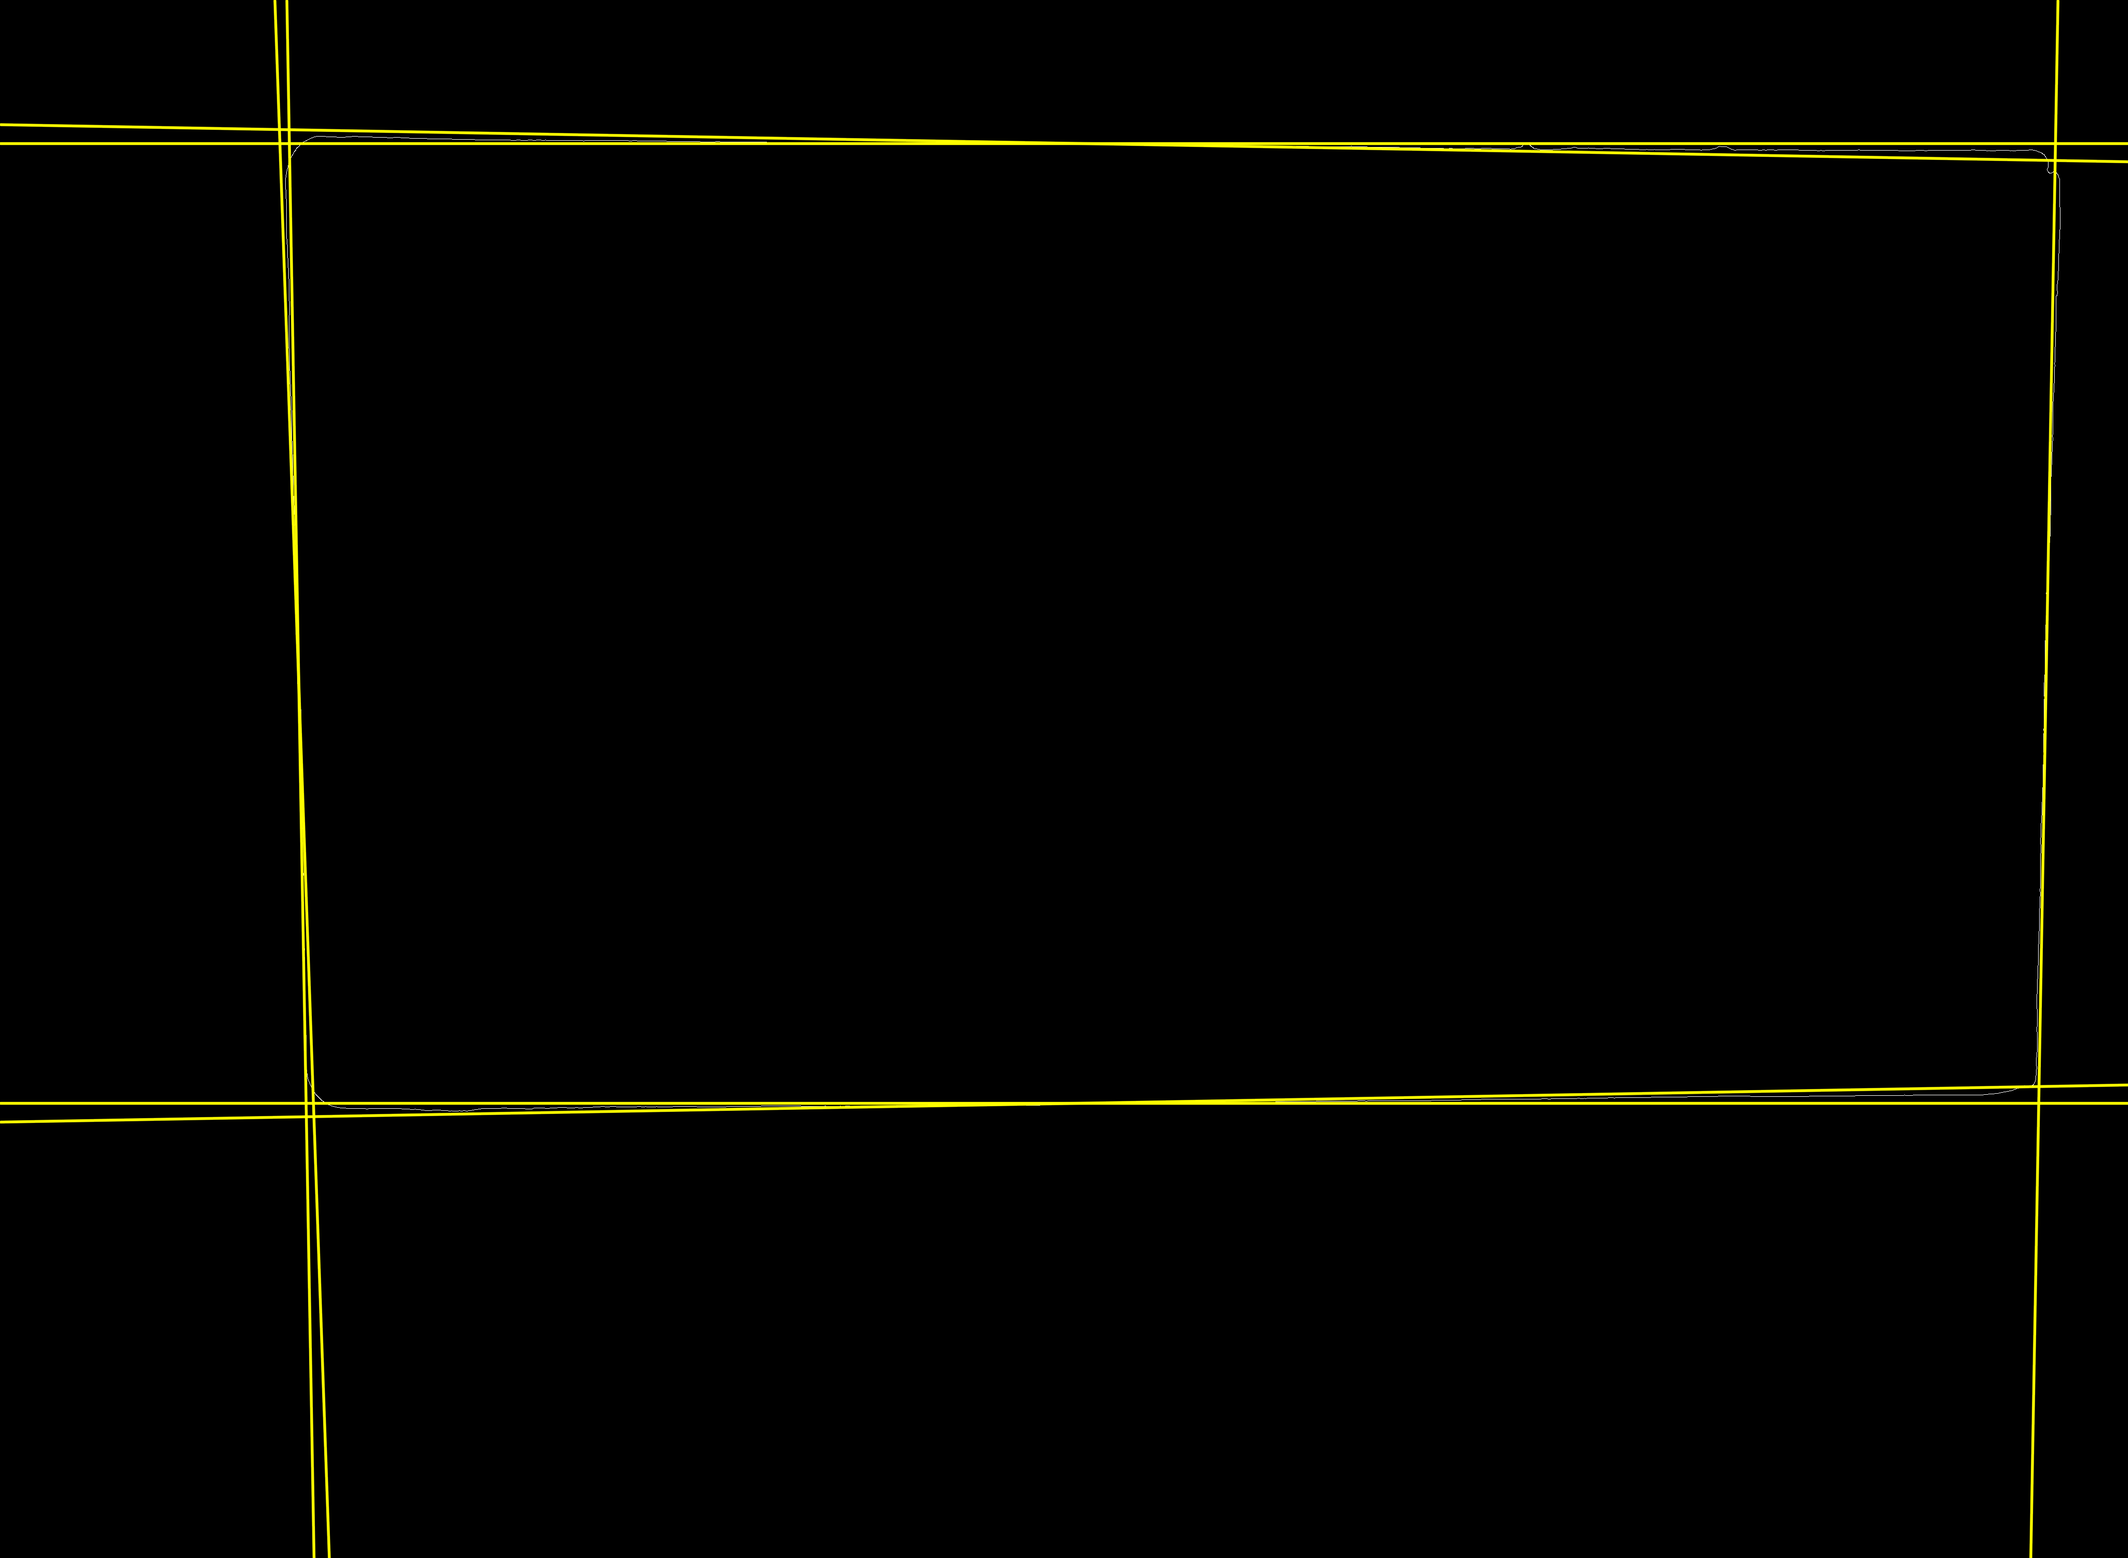
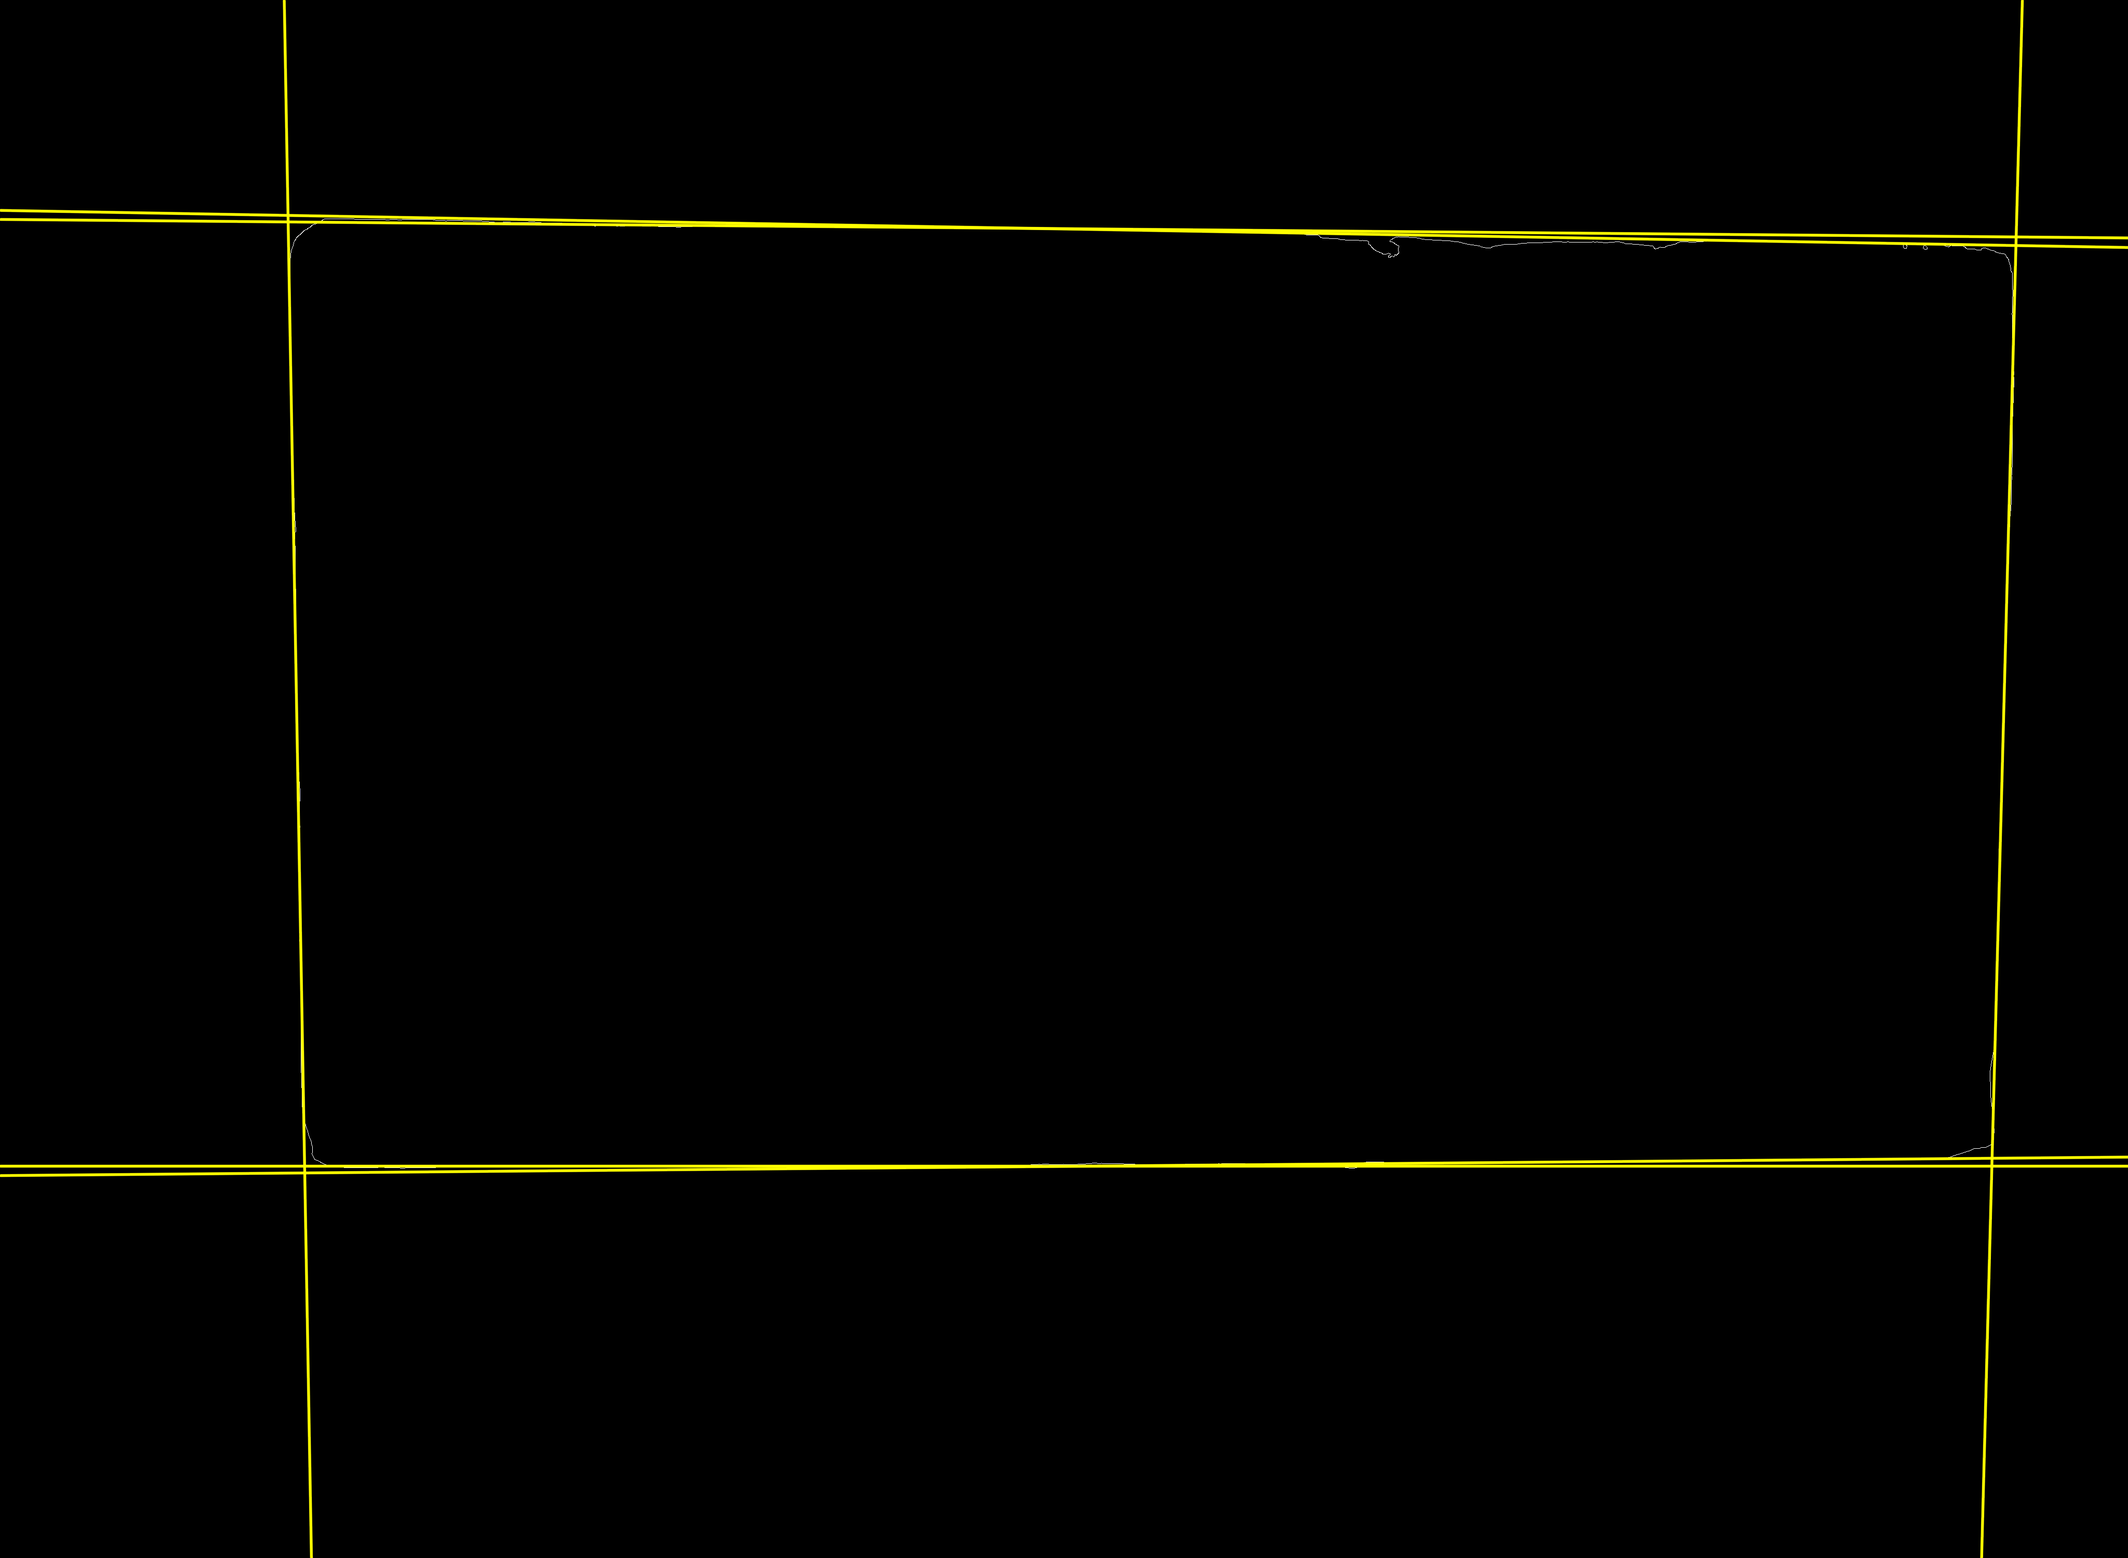
加入python

diff --git a/pyCode/registration.py b/pyCode/registration.py
@@ -1,33 +1,240 @@
 from math import atan2
-from typing import List
+from pathlib import Path
 import cv2
+import os
+import numpy as np
+import math
 
-pts , rectPts= [[]], [[]]
+# 存储识别到的点
+# pts , rectPts= [[]], [[]]
+
+def MkdirAndImwrite(filename, img):
+    pwd_f = Path(filename).parent
+    if not os.path.exists(pwd_f):
+        os.makedirs(pwd_f)
+    cv2.imwrite(filename, img)
+
 
 # 点的顺时针排序
 # 计算该点与重心连线的斜率角,输入为2个点
 def KAngle(a, center):
-    return atan2((a.y - center.y), (a.x - center.x))
+    return atan2((a[1] - center[1]), (a[0] - center[0]))
 # 对点进行顺时针排序,pts为点集
-def ClockWiseSortPoints(pts):
-    center = 0
+def ClockwiseSortPoints(pts):
+    center = np.array([0, 0], dtype=np.int32)
     x, y = 0, 0
     ptsSize = len(pts)
     for pt in pts:
-        x += pt.x
-        y += pt.y
+        x += pt[0]
+        y += pt[1]
     # 防止出现除0错误
-    if ptsSize:
-        center.x = x / ptsSize
-        center.y = y / ptsSize
+    if ptsSize > 0:
+        center[0] = int(x / ptsSize)
+        center[1] = int(y / ptsSize)
     else:
-        center.x = 2000
-        center.y = 1500
+        center[0] = 2000
+        center[1] = 1500
     
     # 冒泡排序
     for i in range(0, ptsSize - 1):
-        for j in range(0, i - 1):
+        for j in range(0, ptsSize - i - 1):
+            a=KAngle(pts[j], center)
+            b=KAngle(pts[j + 1], center)
             if KAngle(pts[j], center) > KAngle(pts[j + 1], center):
                 tmp = pts[j]
                 pts[j] = pts[j + 1]
                 pts[j + 1] = tmp
+
+# 输入一个数组,返回他是否有4个不同顶点,th_x表示x轴距离多远之内被视为一个点
+def Has4Points(pts, th_x, th_y) -> bool:
+    pointNum = len(pts)
+    ClockwiseSortPoints(pts)
+    for i in range(0, pointNum):
+        # 两点挨在一起时pointNum-1
+        if abs(pts[i - 1][0] - pts[i][0]) < th_x and abs(pts[i - 1][1] - pts[i][1]) < th_y:
+            pointNum -= 1
+    if pointNum >= 4:
+        return True
+    return False
+
+# 画多边形过程
+# 去除小连通区域,输入为两张图
+def RemoveSmall(src):
+    # 将二值图转化为黑白存储到dst中
+    dst= cv2.inRange(src, (0, 100, 0), (255, 255, 255))
+    MkdirAndImwrite("original.png", dst)
+    # 提取连通区域，并剔除小面积联通区域
+    contours, hierarchy= cv2.findContours(dst, cv2.RETR_LIST, cv2.CHAIN_APPROX_NONE)
+    # 图片总面积
+    areaSize = len(src[0]) * len(src)
+    # 小于图片面积四分之一的视为小区域
+    tmp = [i for i in contours if cv2.contourArea(i) >= areaSize / 4]
+    # tmp = np.array([])
+    # for i in range(len(contours)):
+    #     area = cv2.contourArea(contours[i])
+    #     if area >= areaSize / 4:
+    #         tmp.append(contours[i])
+    contours = tmp
+
+    # 将所有像素置零
+    dst[:, :] = 0
+    cv2.drawContours(dst, contours, -1, [255], cv2.FILLED)
+    MkdirAndImwrite("remove.png", dst)
+    return dst
+
+# 给二元一次方程组求解(带过程){ax+by+c=0 dx+ey+f=0}
+def SolvEqu(a, b, c, d, e, f):
+    y = (-f * 1.0 + d * c * 1.0 / a) * 1.0 / (-d * b * 1.0 / a + e * 1.0)
+    x = (-c * 1.0 - b * y * 1.0) * 1.0 / a
+    return x, y
+
+# 获得直线交点，第4,5,6个参数是HoughLines的rho精度，theta精度和长度阈值
+def CntPoint(srcImage,
+             rho_h = 1, theta_h = math.pi/360, 
+             th_h = 450, srn = 0, stn = 0):
+    th_h = int(th_h)
+    midImage = cv2.Canny(srcImage, 50, 200, 3)
+    dstImage = cv2.cvtColor(midImage, cv2.COLOR_GRAY2BGR)
+    MkdirAndImwrite("cannyEdge.png", midImage)
+    # 进行霍夫线变换
+    lines = cv2.HoughLines(midImage, rho_h, theta_h, th_h)
+    pts = [[]]
+
+    # 依次在图中绘制出每条线段,并且两两求交点
+    for i in range(len(lines)):
+        rho, theta = lines[i][0][0], lines[i][0][1]
+        a, b= math.cos(theta), math.sin(theta)
+        x0, y0 = a * rho, b * rho
+        pt1 = (int(x0 + 10000 * (-b)), int(y0 + 10000 * (a)))
+        pt2 = (int(x0 - 10000 * (-b)), int(y0 - 10000 * (a)))
+        # 画线
+        cv2.line(dstImage, pt1, pt2, (255,255,255))
+        # 两两求交点
+        for j in range(i+1, len(lines)):
+            rho2, theta2 = lines[j][0][0], lines[j][0][1]
+            c, d= math.cos(theta2), math.sin(theta2)
+            x, y = SolvEqu(a, b, -rho, c, d, -rho2)
+            if ((0 <= x and x <= len(srcImage[0]) and 0 <= y and y <= len(srcImage)) 
+                 and not ((x > (len(srcImage[0]) / 4) and x < (len(srcImage[0]) / 6 * 5))
+                 or (y > (len(srcImage) / 3) and y < (len(srcImage) / 3 * 2)))):
+                pts[0].append((int(x), int(y)))
+
+    return pts, dstImage
+
+def IntoPoly(dst, pts):
+    # 将交点排序并连成多边形并填充
+    ClockwiseSortPoints(pts[0])
+    dstImage = np.zeros(shape=(len(dst), len(dst[0]), 3), dtype=np.uint8)
+    pts = np.array(pts)
+    cv2.fillPoly(dstImage, pts, (255, 255, 255))
+    MkdirAndImwrite("srcPloy.png", dstImage)
+    dst = dstImage
+    return dstImage
+
+# 从前到后分别为变换矩阵，原图，二值图，结果图，中间图1,2，参照图，
+# flagM表示是否直接用传进来的变换矩阵为1用,succeed表示是否失败过，为1表示失败过要变更参数
+def Registrating1Pic(M, fnSrc, fnBinImg, fnFi, 
+                    flagM = False, failed = False,
+                    FnMid1 = "srcLines.png", 
+                    FnMid2 = "refLines.png", 
+                    fnRefImg = "refImg.png") -> bool:
+    # 用于记录失败的图片
+    failedImg = open("failedImg.txt", "a")
+    # IMG1:二值图，refimg：参考二值图，src：原图，dst：结果图
+    binImg = cv2.imread(fnBinImg)
+    refImg = cv2.imread(fnRefImg)
+    src = cv2.imread(fnSrc)
+    dst = np.zeros(shape=(len(src), len(src[0]), 3), dtype=np.uint8)
+    # 没有二值图(png)返回失败
+    if(len(binImg) == 0):
+        return True
+    refImg = cv2.resize(refImg, (len(src[0]), len(src)))
+    # 若有矩阵且使用则直接变换
+    if flagM and len(M) != 0:
+        dst = cv2.warpPerspective(M, (len(src[0]), len(src)))
+    else:
+        midImg = RemoveSmall(binImg)
+        try:
+            if failed:
+                pts, binImg = CntPoint(midImg, 12, math.pi / 180, len(src[0])*1000/4096)
+            else:
+                pts, binImg = CntPoint(midImg, 1, math.pi / 360, len(src[0])*450/4096)
+            print(pts[0])
+            #由顶点填充多边形
+            binImg = IntoPoly(binImg, pts)
+            MkdirAndImwrite(fnFi, binImg)
+        except Exception:
+            # 若已经失败过，记录文件名到txt文件方便以后处理
+            if failed:
+                failedImg.writelines(str(fnSrc))
+            print("该图失败")
+            failedImg.close()
+            # 删除失败的结果图，方便下一步处理
+            if os.path.exists(str(fnFi)):
+                os.remove(str(fnFi))
+            return False
+        
+        # 获得填充好的矩形的顶点
+        pts, midImg = CntPoint(binImg, 1, math.pi / 360, len(src[0])*450/4096)
+        if not Has4Points(pts[0], len(src[0])/4, len(src)/4):
+            pts, midImg = CntPoint(binImg, 1, math.pi / 360, len(src[0])*350/4096)
+        if not Has4Points(pts[0], len(src[0])/4, len(src)/4):
+            pts, midImg = CntPoint(binImg, 1, math.pi / 360, len(src[0])*250/4096)
+        if not Has4Points(pts[0], len(src[0])/4, len(src)/4):
+            pts, midImg = CntPoint(binImg, 7, math.pi / 180, len(src[0])*700/4096)
+        print(pts[0])
+        MkdirAndImwrite(FnMid1, midImg)
+        if not Has4Points(pts[0], len(src[0])/4, len(src)/4) or len(pts[0])>100:
+            print("识别不到四个顶点")
+            MkdirAndImwrite(fnFi, midImg)
+            return False
+
+        # 获取基准图顶点
+        rectPts, midImg = CntPoint(refImg)
+        print(rectPts[0])
+        MkdirAndImwrite(FnMid2, midImg)
+
+        # 顶点排序
+        ClockwiseSortPoints(pts[0])
+        ClockwiseSortPoints(rectPts[0])
+        # 删除多余顶点,只保留4个
+        pts2F , rectPts2F = [(0, 0) for i in range(4)], rectPts[0]
+        pts2F , rectPts2F = np.array(pts2F, dtype=np.float32) , np.array(rectPts2F ,dtype=np.float32)
+        j = 1
+        for i in range(1, len(pts[0])):
+            # 不为多余顶点
+            if abs(pts[0][i - 1][0] - pts[0][i][0]) > (len(src[0]) / 4) or abs(pts[0][i - 1][1] - pts[0][i][1]) > (len(src) / 4):
+                pts2F[j] = pts[0][i]
+                j += 1
+        pts2F[0] = pts[0][0]
+        ClockwiseSortPoints(pts2F)
+        for i in range(len(pts2F)):
+            print(pts2F[i])
+            # 如果有两个点太接近或不足4个点则失败
+            if (pts2F[i][0] == 0 and pts2F[i][1] == 0) or ((i > 0) and (abs(pts2F[i - 1][0] - pts2F[i][0]) < (len(src[0]) / 4) and abs(pts2F[i - 1][1] - pts2F[i][1]) < (len(src) / 4))):
+                # 若已经失败过，记录文件名到txt文件方便以后处理
+                if failed:
+                    failedImg.writelines(str(fnSrc))
+                print("该图失败")
+                failedImg.close()
+                # 删除失败的结果图，方便下一步处理
+                if os.path.exists(str(fnFi)):
+                    os.remove(str(fnFi))
+                return False
+        
+        M = cv2.getPerspectiveTransform(pts2F, rectPts2F)
+        dst = cv2.warpPerspective(src, M, (len(src[0]), len(src)))
+        # 抠图
+        refImg = cv2.bitwise_not(refImg)
+        maskedDst = cv2.subtract(dst, refImg)
+        MkdirAndImwrite(fnFi, maskedDst)
+        failedImg.close()
+
+        return True
+            
+Registrating1Pic([], 
+                r"F:\shixi\CS\registration\registration\srcImg\test\001\Right\R0.jpg",
+                r"F:\shixi\CS\registration\registration\binImg\test\001\Right\R0.png",
+                r"F:\shixi\CS\registration\registration\dstImg\test\001\Right\R0.png")
+
+    

diff --git a/Registration.cpp b/Registration.cpp
@@ -254,20 +254,21 @@ void Registration::IntoPoly(Mat& dstImage, vector<Point>& pts)
 
 //从前到后分别为变换矩阵，原图，二值图，结果图，中间图1,2，参照图，flagM表示是否直接用传进来的变换矩阵为1用,succeed表示是否失败过，为1表示失败过要变更参数
 
-bool Registration::Registrating1Pic(Mat& M, const String FnSrc, const String fnBinImg, const String FnFi, const bool flagM, const bool failed, const String FnMid1, const String FnMid2, const String fnRefImg)
+bool Registration::Registrating1Pic(Mat& M, const String fnSrc, const String fnBinImg, const String fnFi, const bool flagM, const bool failed, const String FnMid1, const String FnMid2, const String fnRefImg)
 {
     //用于记录失败的图片
     ofstream failedImg; failedImg.open("failedImg.txt", ofstream::app);
     //IMG1:二值图，refimg：参考二值图，src：原图，dst：结果图
-    Mat binImg = imread(fnBinImg), refImg = imread(fnRefImg), src = imread(FnSrc), dst(src.size(), CV_8UC3);
+    Mat binImg = imread(fnBinImg), refImg = imread(fnRefImg), src = imread(fnSrc), dst(src.size(), CV_8UC3);
     //没有二值图(png)返回
     if (binImg.empty()) {
-        return 1;
+        return true;
     }
     resize(refImg, refImg, Size(src.cols, src.rows));
     Mat midImg(src.size(), CV_8UC1);
     //vector<vector<Point>> pts(1), rectPts(1);//存放交点
     Point2f pts2F[4], rectPts2F[4];
+    //若有矩阵且使用则直接变换
     if (flagM && !M.empty()) warpPerspective(src, dst, M, Size(src.cols, src.rows));
     else {
 
@@ -285,11 +286,11 @@ bool Registration::Registrating1Pic(Mat& M, const String FnSrc, const String fnB
         catch (...) {
             //若已经失败过，记录文件名到txt文件方便以后处理
             if (failed)
-                failedImg << string(FnSrc.c_str()) << std::endl;
+                failedImg << string(fnSrc.c_str()) << std::endl;
             std::cout << "该图失败" << std::endl;
             failedImg.close();
             //删除失败的结果图，方便下一步处理
-            remove(FnFi.c_str());
+            remove(fnFi.c_str());
             return false;
         }
 
@@ -307,10 +308,9 @@ bool Registration::Registrating1Pic(Mat& M, const String FnSrc, const String fnB
             CntPoint(binImg, midImg, pts, 7, CV_PI / 180, src.cols * 700 / 4096);
         std::cout << pts[0] << std::endl;
         MkdirAndImwrite(FnMid1, midImg);//中间图1
-        if (pts[0].size() < 4 || pts[0].size() > 100) {
+        if (!Has4Points(pts[0], src.cols / 4, src.rows / 4) || pts[0].size() > 100) {
             std::cout << "识别不到4个顶点" << std::endl;
-            Mat temp = midImg;
-            MkdirAndImwrite(FnFi, temp);
+            MkdirAndImwrite(fnFi, midImg);
             return false;
         }
 
@@ -336,11 +336,11 @@ bool Registration::Registrating1Pic(Mat& M, const String FnSrc, const String fnB
             if ((pts2F[i] == Point2f(0, 0)) || ((i > 0) && (abs(pts2F[i - 1].x - pts2F[i].x) < (src.cols / 4) && abs(pts2F[i - 1].y - pts2F[i].y) < (src.rows / 4)))) {
                 //若已经失败过，记录文件名到txt文件方便以后处理
                 if (failed)
-                    failedImg << string(FnSrc.c_str()) << std::endl;
+                    failedImg << string(fnSrc.c_str()) << std::endl;
                 std::cout << "该图失败" << std::endl;
                 failedImg.close();
                 //删除失败的结果图，方便下一步处理
-                remove(FnFi.c_str());
+                remove(fnFi.c_str());
                 return false;
             }
         }
@@ -354,7 +354,7 @@ bool Registration::Registrating1Pic(Mat& M, const String FnSrc, const String fnB
     dst.copyTo(maskedDst, refImg);//抠图
     //测试用，如果失败过在图片上标记
     //if (failed) putText(maskedDst, "2222", Point(1600, 900), FONT_HERSHEY_TRIPLEX, 10, Scalar(0, 0, 255));
-    MkdirAndImwrite(FnFi, maskedDst);//最终结果
+    MkdirAndImwrite(fnFi, maskedDst);//最终结果
     failedImg.close();
 
 
